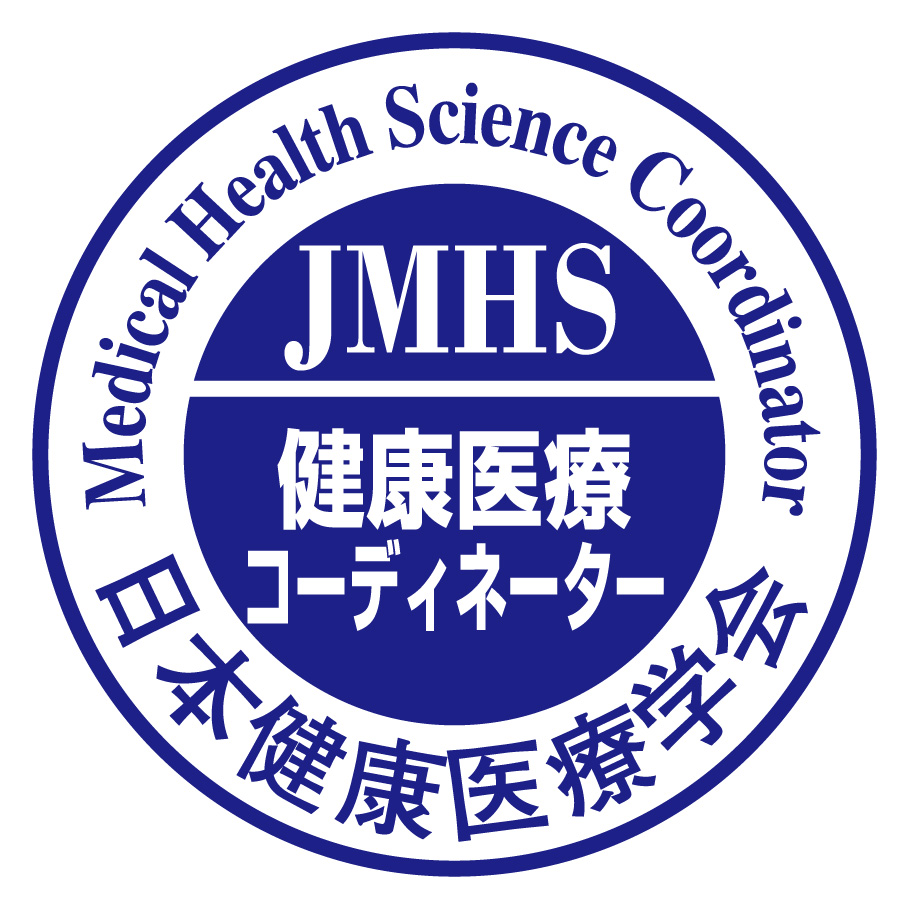
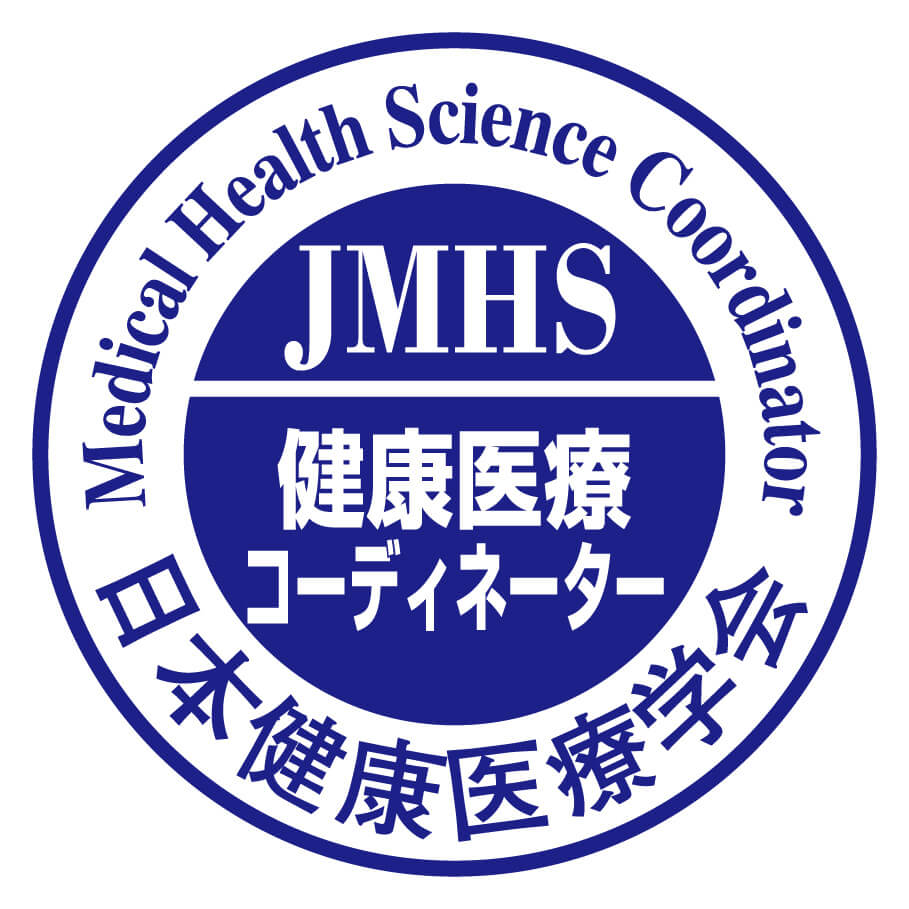
画像を圧縮・最適化し読み込みを軽量化
Made-with: Cursor

diff --git a/index.html b/index.html
@@ -16,7 +16,7 @@
     <meta property="og:title" content="第21回 健康医療コーディネーター研修会・認定審査 | 日本健康医療学会">
     <meta property="og:description" content="2026年4月19日（日）開催。医師・看護師・一般の方まで受講可能。1日で取得できる学会認定の予防医療資格。会場（六本木ヒルズ）またはZoomで参加できます。">
     <meta property="og:type" content="website">
-    <meta property="og:url" content="https://dub.sh/formnihonkenkouiryou">
+    <meta property="og:url" content="https://dub.sh/nihonkenkouiryou">
     <meta property="og:image" content="DSC_0728.JPG">
     <meta property="og:locale" content="ja_JP">
     <meta name="twitter:card" content="summary_large_image">
@@ -196,7 +196,7 @@
                     <p class="text-sm font-bold text-medical-primary">第21回 健康医療コーディネーター研修会・認定審査</p>
                 </div>
             </div>
-            <a href="https://dub.sh/formnihonkenkouiryou" target="_blank" rel="noopener noreferrer" class="bg-medical-accent hover:bg-yellow-600 text-white font-bold py-2 px-4 rounded-full text-sm shadow-lg transition duration-300">
+            <a href="https://dub.sh/nihonkenkouiryou" target="_blank" rel="noopener noreferrer" class="bg-medical-accent hover:bg-yellow-600 text-white font-bold py-2 px-4 rounded-full text-sm shadow-lg transition duration-300">
                 お申し込みはこちら
             </a>
         </div>
@@ -245,7 +245,7 @@
                 <p class="text-center text-sm mt-3 opacity-90">ハリウッド大学院大学（六本木ヒルズ）／オンライン</p>
             </div>
 
-            <a href="https://dub.sh/formnihonkenkouiryou" target="_blank" rel="noopener noreferrer" class="inline-block bg-gradient-to-r from-yellow-500 to-yellow-600 hover:from-yellow-400 hover:to-yellow-500 text-white text-xl md:text-2xl font-bold py-4 px-12 rounded-full shadow-xl transform hover:scale-105 transition duration-300 animate-pulse">
+            <a href="https://dub.sh/nihonkenkouiryou" target="_blank" rel="noopener noreferrer" class="inline-block bg-gradient-to-r from-yellow-500 to-yellow-600 hover:from-yellow-400 hover:to-yellow-500 text-white text-xl md:text-2xl font-bold py-4 px-12 rounded-full shadow-xl transform hover:scale-105 transition duration-300 animate-pulse">
                 今すぐ申し込む
                 <span class="block text-xs font-normal mt-1">※当日の試験はありません（後日提出）</span>
             </a>
@@ -423,7 +423,7 @@
                         <h3 class="text-lg font-bold text-medical-primary">お申し込み</h3>
                     </div>
                     <p class="text-gray-700 text-sm mb-4">お申し込みフォームから必要事項を入力し、申し込みを完了してください。</p>
-                    <a href="https://dub.sh/formnihonkenkouiryou" target="_blank" rel="noopener noreferrer" class="inline-block bg-medical-accent hover:bg-yellow-600 text-white font-bold py-2 px-4 rounded-lg text-sm transition duration-300">
+                    <a href="https://dub.sh/nihonkenkouiryou" target="_blank" rel="noopener noreferrer" class="inline-block bg-medical-accent hover:bg-yellow-600 text-white font-bold py-2 px-4 rounded-lg text-sm transition duration-300">
                         お申し込みはこちら →
                     </a>
                 </div>
@@ -531,7 +531,7 @@
             <div class="mt-8 observer-hidden">
                 <div class="curriculum-card rounded-xl p-5 text-center">
                     <p class="text-gray-700 font-medium text-sm">会場・Zoom どちらでも同じカリキュラムで受講いただけます</p>
-                    <a href="https://dub.sh/formnihonkenkouiryou" target="_blank" rel="noopener noreferrer" class="inline-block mt-3 text-medical-primary font-bold text-sm hover:underline">お申し込みはこちら</a>
+                    <a href="https://dub.sh/nihonkenkouiryou" target="_blank" rel="noopener noreferrer" class="inline-block mt-3 text-medical-primary font-bold text-sm hover:underline">お申し込みはこちら</a>
                 </div>
             </div>
         </div>
@@ -605,7 +605,7 @@
 
                 <div class="text-center">
                     <p class="text-gray-600 font-bold mb-4"><span class="text-amber-600">会場のみ先着100名</span>／<span class="text-green-600">Zoomは無制限</span>で安心してご参加いただけます</p>
-                    <a href="https://dub.sh/formnihonkenkouiryou" target="_blank" rel="noopener noreferrer" class="block w-full bg-medical-accent hover:bg-yellow-600 text-white font-bold text-xl py-4 rounded-lg shadow-lg transition duration-300 transform hover:scale-105">
+                    <a href="https://dub.sh/nihonkenkouiryou" target="_blank" rel="noopener noreferrer" class="block w-full bg-medical-accent hover:bg-yellow-600 text-white font-bold text-xl py-4 rounded-lg shadow-lg transition duration-300 transform hover:scale-105">
                         研修会・認定審査に申し込む<br>
                         <span class="text-sm font-normal">お申し込みページへ移動します</span>
                     </a>
@@ -660,7 +660,7 @@
             <h2 class="text-2xl md:text-3xl font-bold mb-4 serif-font">健康と医療の知識は、<br>あなたとあなたの大切な人を守る力になります。</h2>
             <p class="mb-8 opacity-80">会場参加は先着100名、Zoomは無制限です。<br>キャリアアップのため、家族のために、ぜひこの機会にご参加ください。</p>
             
-            <a href="https://dub.sh/formnihonkenkouiryou" target="_blank" rel="noopener noreferrer" class="inline-block bg-medical-accent hover:bg-yellow-600 text-white font-bold text-xl py-4 px-12 rounded-full shadow-lg transition duration-300 animate-pulse">
+            <a href="https://dub.sh/nihonkenkouiryou" target="_blank" rel="noopener noreferrer" class="inline-block bg-medical-accent hover:bg-yellow-600 text-white font-bold text-xl py-4 px-12 rounded-full shadow-lg transition duration-300 animate-pulse">
                 [会場・Web] 申し込みはこちら
             </a>
             
@@ -673,7 +673,7 @@
     </footer>
 
     <!-- スマホ用固定CTA（追従ボタン） -->
-    <a href="https://dub.sh/formnihonkenkouiryou" target="_blank" rel="noopener noreferrer" id="ctaFixed" class="cta-fixed md:hidden fixed bottom-0 left-0 right-0 z-40 bg-medical-accent hover:bg-yellow-600 text-white font-bold py-4 px-6 text-center shadow-[0_-4px_20px_rgba(0,0,0,0.15)]">
+    <a href="https://dub.sh/nihonkenkouiryou" target="_blank" rel="noopener noreferrer" id="ctaFixed" class="cta-fixed md:hidden fixed bottom-0 left-0 right-0 z-40 bg-medical-accent hover:bg-yellow-600 text-white font-bold py-4 px-6 text-center shadow-[0_-4px_20px_rgba(0,0,0,0.15)]">
         今すぐ申し込む
     </a>
 
